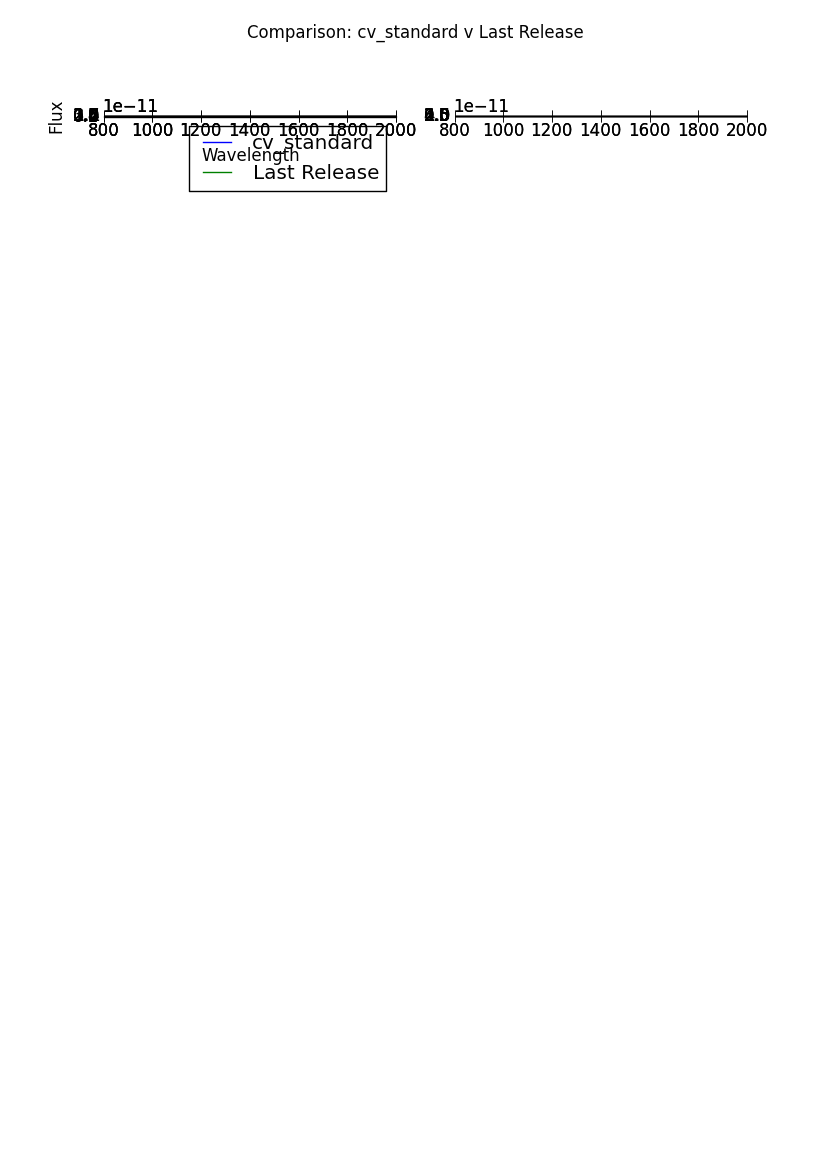
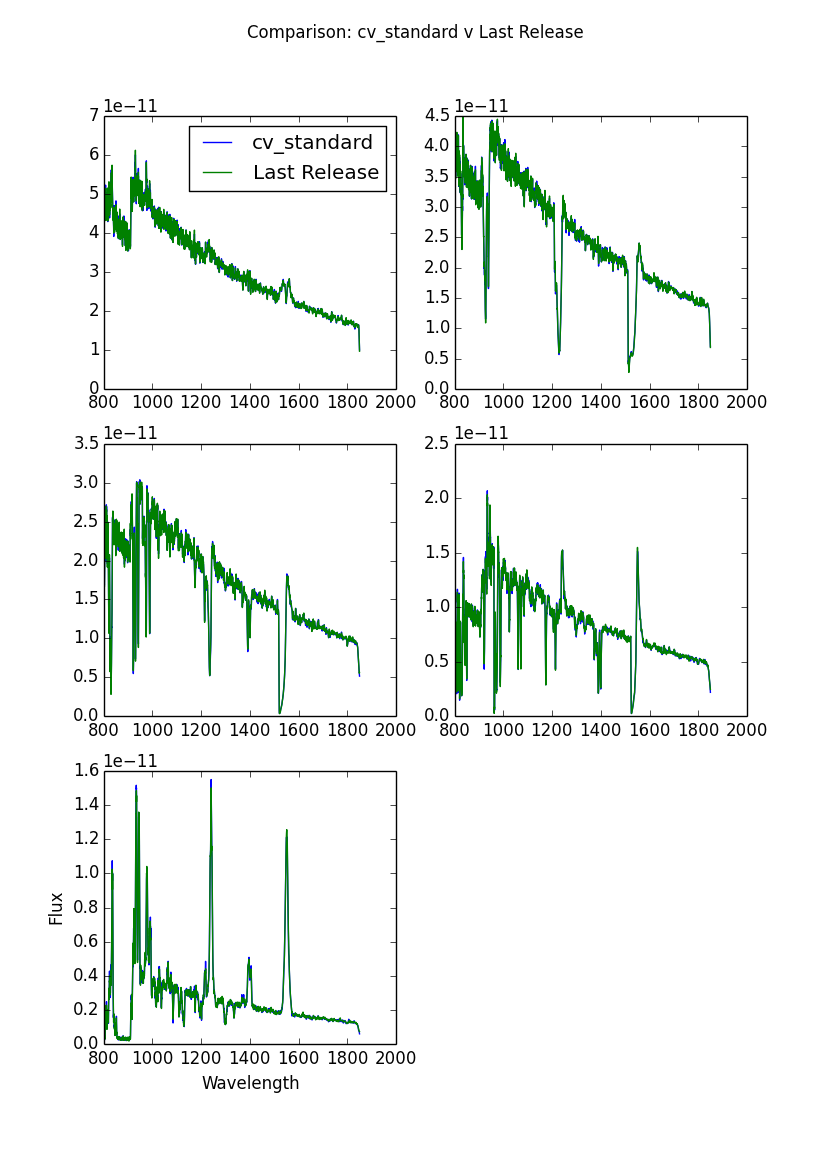
Regression test for 2015-03-23

Changed region(s): [[0.0602, 0.0931, 0.9337, 0.9621]]

diff --git a/scripts/plot_sub.py b/scripts/plot_sub.py
@@ -246,7 +246,7 @@ def make_residual_plot(s1, s2, name):
 
 	fig = figure(figsize=(8.3,11.6))
 
-	nplots = len(s1[s1.colnames[9:]])
+	nplots = len(s1.colnames[9:])
 	nx = 2
 	ny = (nplots + 1) / nx
 
@@ -269,7 +269,7 @@ def make_comp_plot(s1, s2, name):
 
 	fig = figure(figsize=(8.3,11.6))
 
-	nplots = len(s1[s1.colnames[9:]])
+	nplots = len(s1.colnames[9:])
 	nx = 2
 	ny = (nplots + 1) / nx
 
